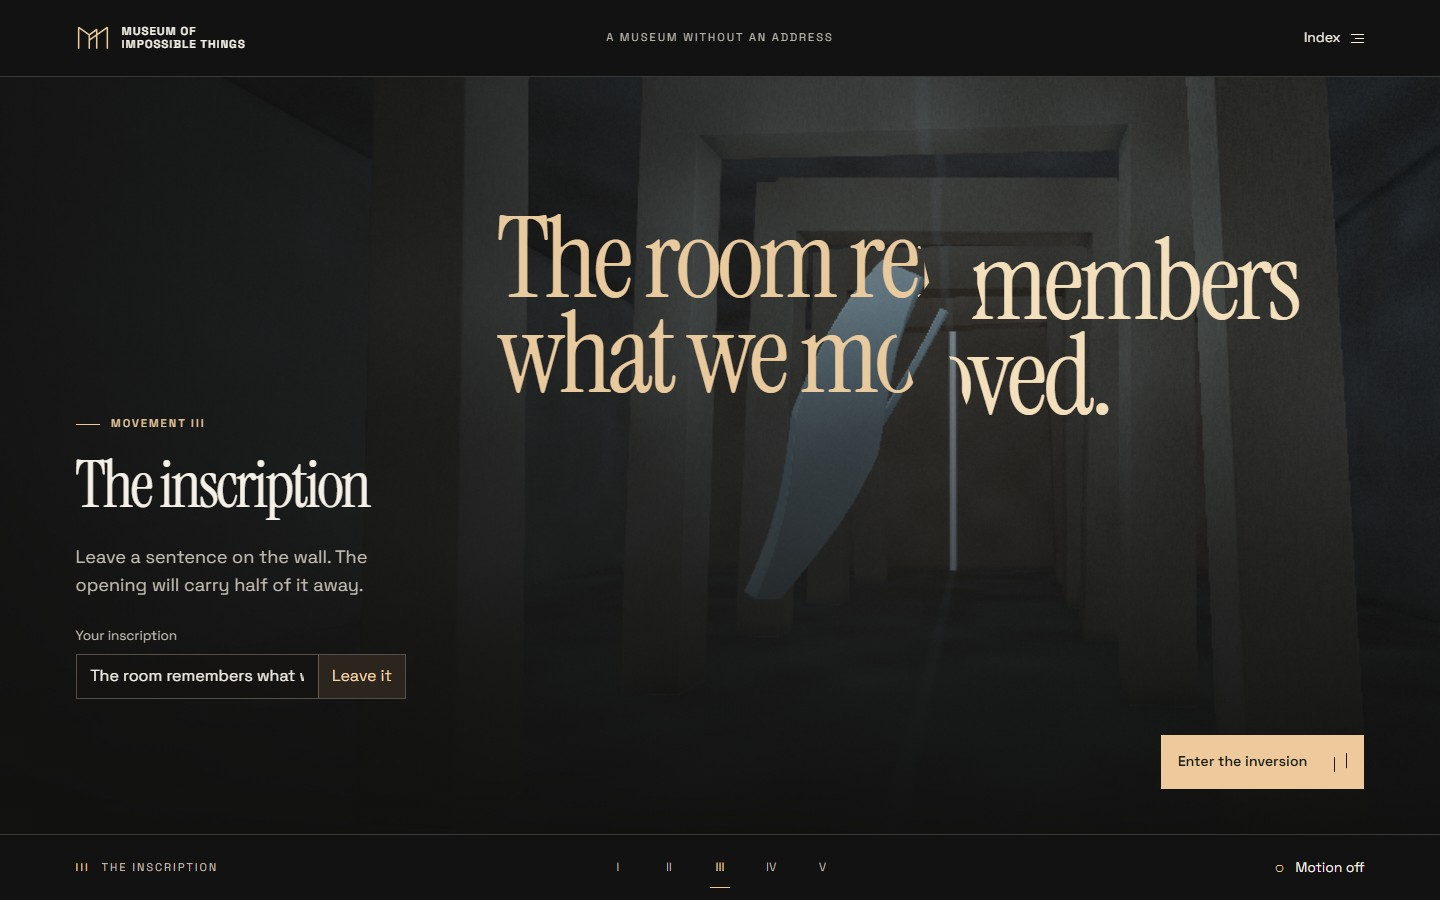
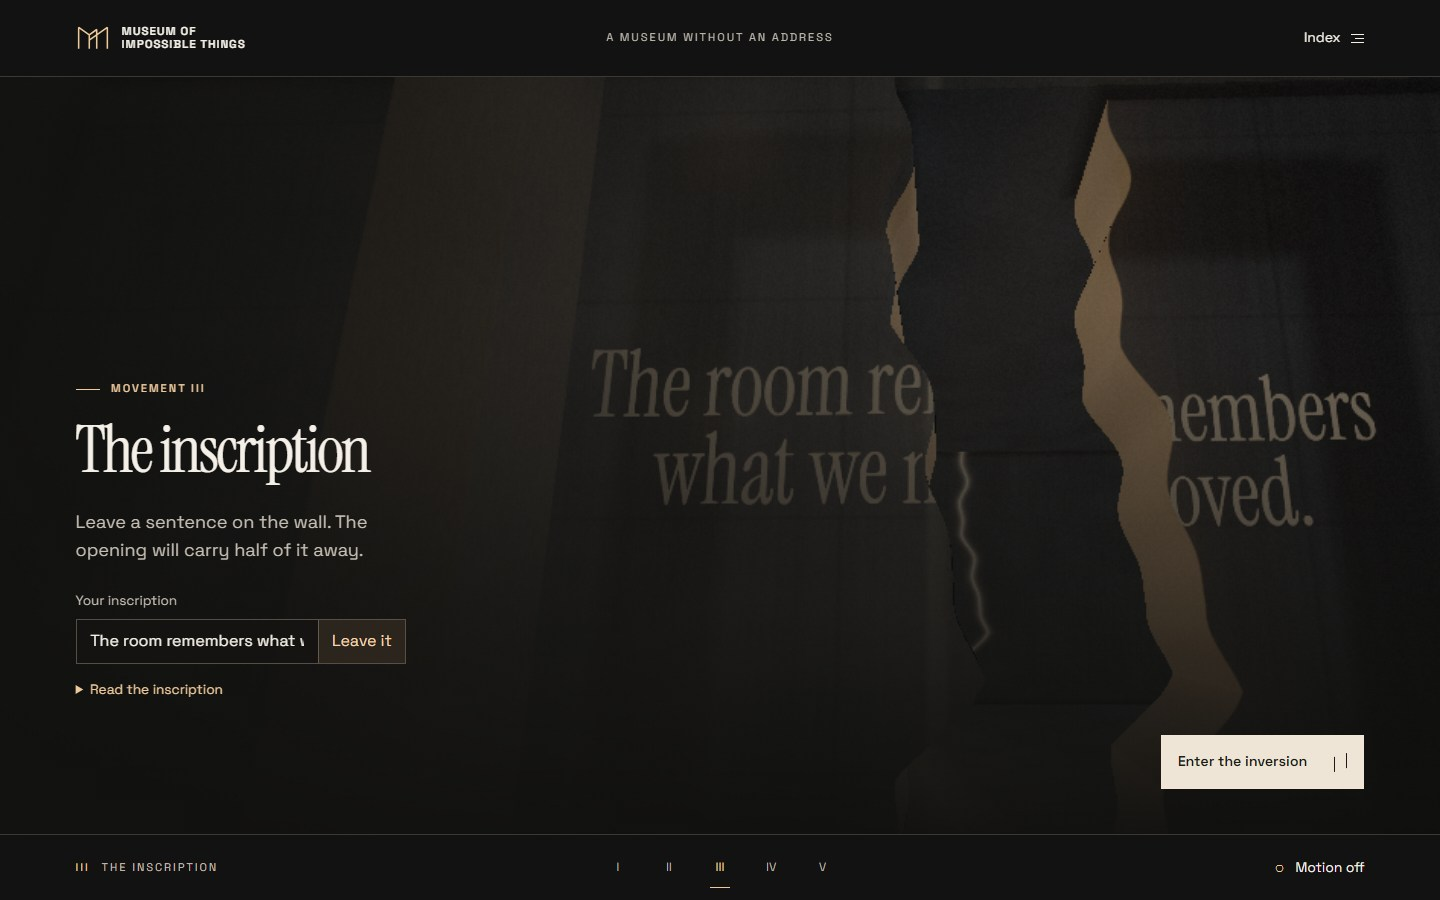
Engrave visitor inscriptions on the moving chamber walls

diff --git a/src/threshold/Chamber.tsx b/src/threshold/Chamber.tsx
@@ -1,5 +1,6 @@
 import { useEffect, useRef } from 'react'
 import { fragment, vertex } from './shaders'
+import { drawInscription } from './inscription'
 
 function compile(gl: WebGLRenderingContext, kind: number, source: string) {
   const shader = gl.createShader(kind)
@@ -19,7 +20,8 @@ function createScene(canvas: HTMLCanvasElement) {
   const fs = compile(gl, gl.FRAGMENT_SHADER, fragment)
   const program = gl.createProgram()
   const triangle = gl.createBuffer()
-  if (!program || !triangle) throw new Error('Could not allocate the scene')
+  const ink = gl.createTexture()
+  if (!program || !triangle || !ink) throw new Error('Could not allocate the scene')
   gl.attachShader(program, vs)
   gl.attachShader(program, fs)
   gl.linkProgram(program)
@@ -33,19 +35,26 @@ function createScene(canvas: HTMLCanvasElement) {
   gl.enableVertexAttribArray(position)
   gl.vertexAttribPointer(position, 2, gl.FLOAT, false, 0, 0)
   const location = (name: string) => gl.getUniformLocation(program, name)
+  gl.bindTexture(gl.TEXTURE_2D, ink)
+  gl.texParameteri(gl.TEXTURE_2D, gl.TEXTURE_MIN_FILTER, gl.LINEAR)
+  gl.texParameteri(gl.TEXTURE_2D, gl.TEXTURE_MAG_FILTER, gl.LINEAR)
+  gl.texParameteri(gl.TEXTURE_2D, gl.TEXTURE_WRAP_S, gl.CLAMP_TO_EDGE)
+  gl.texParameteri(gl.TEXTURE_2D, gl.TEXTURE_WRAP_T, gl.CLAMP_TO_EDGE)
+  gl.texImage2D(gl.TEXTURE_2D, 0, gl.RGBA, 1, 1, 0, gl.RGBA, gl.UNSIGNED_BYTE, new Uint8Array(4))
+  gl.uniform1i(location('uInk'), 0)
   return {
-    gl, program, triangle,
+    gl, program, triangle, ink,
     size: location('uSize'), opening: location('uOpening'), quality: location('uQuality'),
     chapter: location('uChapter'), joint: location('uJoint'), gravity: location('uGravity'), light: location('uLight'),
   }
 }
 
-type SceneState = { opening: number; chapter: number; motion: boolean; changing: boolean; gravity: boolean; light: number }
+type SceneState = { opening: number; chapter: number; motion: boolean; changing: boolean; gravity: boolean; light: number; phrase: string }
 
-export default function Chamber({ opening, chapter, motion, changing, gravity, light }: SceneState) {
+export default function Chamber({ opening, chapter, motion, changing, gravity, light, phrase }: SceneState) {
   const element = useRef<HTMLCanvasElement>(null)
   const update = useRef<((state: SceneState) => void) | null>(null)
-  const initial = useRef({ opening, chapter, motion, changing, gravity, light })
+  const initial = useRef({ opening, chapter, motion, changing, gravity, light, phrase })
 
   useEffect(() => {
     const node = element.current
@@ -66,6 +75,8 @@ export default function Chamber({ opening, chapter, motion, changing, gravity, l
     let frame = 0, previous = 0, refineTimer = 0
     let resize = true, disabled = false, moving = false
     let detailReady = false
+    const inkCanvas = document.createElement('canvas')
+    let uploadedPhrase = ''
     const { gl } = scene
     const rendererInfo = gl.getExtension('WEBGL_debug_renderer_info')
     const renderer = rendererInfo ? String(gl.getParameter(rendererInfo.UNMASKED_RENDERER_WEBGL)) : ''
@@ -127,6 +138,12 @@ export default function Chamber({ opening, chapter, motion, changing, gravity, l
       gl.uniform1f(scene.chapter, currentChapter)
       gl.uniform1f(scene.gravity, currentGravity)
       gl.uniform1f(scene.light, currentLight)
+      if (state.chapter >= 2 && state.phrase !== uploadedPhrase) {
+        drawInscription(inkCanvas, state.phrase)
+        gl.pixelStorei(gl.UNPACK_FLIP_Y_WEBGL, true)
+        gl.texImage2D(gl.TEXTURE_2D, 0, gl.RGBA, gl.RGBA, gl.UNSIGNED_BYTE, inkCanvas)
+        uploadedPhrase = state.phrase
+      }
       gl.drawArrays(gl.TRIANGLES, 0, 3)
       canvas.dataset.rendered = 'true'
       if (!state.changing && live) schedule()
@@ -138,6 +155,7 @@ export default function Chamber({ opening, chapter, motion, changing, gravity, l
     observer.observe(canvas)
     document.addEventListener('visibilitychange', schedule)
     canvas.addEventListener('webglcontextlost', lost)
+    void document.fonts.ready.then(() => { uploadedPhrase = ''; schedule() })
     schedule()
     return () => {
       cancelAnimationFrame(frame)
@@ -147,11 +165,13 @@ export default function Chamber({ opening, chapter, motion, changing, gravity, l
       canvas.removeEventListener('webglcontextlost', lost)
       gl.deleteBuffer(scene.triangle)
       gl.deleteProgram(scene.program)
+      gl.deleteTexture(scene.ink)
+      disabled = true
       update.current = null
     }
   }, [])
 
-  useEffect(() => { update.current?.({ opening, chapter, motion, changing, gravity, light }) }, [opening, chapter, motion, changing, gravity, light])
+  useEffect(() => { update.current?.({ opening, chapter, motion, changing, gravity, light, phrase }) }, [opening, chapter, motion, changing, gravity, light, phrase])
 
   return <canvas className="threshold-canvas" ref={element} aria-hidden="true" />
 }

diff --git a/src/threshold/Threshold.tsx b/src/threshold/Threshold.tsx
@@ -11,7 +11,7 @@ const archive = import.meta.env.BASE_URL + '?archive'
 const artwork = [
   'Two graphite walls meet at a fault. Warm light falls through the opening onto the floor.',
   'The parted walls reveal a concrete passage with offset arches and a suspended stone.',
-  'A sentence projected across two halves of the chamber follows the displacement of the walls.',
+  'An inscription on the back of the graphite walls breaks where the walls part.',
   'The displaced corridor rotates around its vanishing point.',
   'The corridor tilts back into view, with the sentence you left behind.',
 ]
@@ -126,7 +126,7 @@ export default function Threshold() {
     <main className="threshold-main">
       <figure className="threshold-art" aria-label={artwork[chapter]}>
         <div className="threshold-fallback"><span /><span /></div>
-        <Chamber opening={opening} chapter={chapter} changing={changing} motion={motion && !index} gravity={inverted} light={light / 2} />
+        <Chamber opening={opening} chapter={chapter} changing={changing} motion={motion && !index} gravity={inverted} light={light / 2} phrase={phrase} />
       </figure>
       <div className="threshold-shading" aria-hidden="true" />
       {(chapter === 2 || chapter === 4) && <div className="wall-inscription" aria-hidden="true">
@@ -157,6 +157,10 @@ export default function Threshold() {
           <button type="submit">Leave it</button></div>
           <p className="sr-only" role="status">{phrase}</p>
         </form>}
+        {(chapter === 2 || chapter === 4) && <details className="inscription-transcript">
+          <summary>Read the inscription</summary>
+          <p>{phrase}</p>
+        </details>}
         {chapter === 3 && <button className="gravity-control" aria-pressed={inverted} onClick={() => setInverted(value => !value)}>{inverted ? 'Restore gravity' : 'Invert gravity'}<span aria-hidden="true">↻</span></button>}
         {chapter === 4 && <div className="field-record">
           <dl aria-label="Visit record">
@@ -166,7 +170,6 @@ export default function Threshold() {
           </dl>
           <button type="button" disabled={exportState === 'writing'} onClick={exportPrint}>{exportState === 'writing' ? 'Preparing your print…' : 'Download your field record'}</button>
           <p role="status">{exportState === 'sent' ? 'Your print is ready.' : exportState === 'error' ? 'The print could not be created. Try again.' : ''}</p>
-          <p className="sr-only">Your inscription: {phrase}</p>
         </div>}
       </section>
       {chapter === 0 && <div className="fault-interface" data-dragging={changing}>

diff --git a/src/threshold/shaders.ts b/src/threshold/shaders.ts
@@ -12,6 +12,7 @@ uniform float uJoint;
 uniform float uGravity;
 uniform float uQuality;
 uniform float uLight;
+uniform sampler2D uInk;
 
 #define FAR 45.0
 #define EPS .004
@@ -143,6 +144,18 @@ vec3 lightScene(vec3 p, vec3 n, float id, vec3 rd) {
       color += bone*pow(max(0.0,dot(reflected,normalize(vec3(-.8,.6,.31)))),7.0)*.52;
     }
   }
+  if (slab > .5 && n.z < -.75) {
+    float rightSide = step(3.5, id);
+    float wallX = p.x + (1.0-2.0*rightSide)*(gap()-.13);
+    float muralLayout = smoothstep(.57,1.10,uSize.x/uSize.y);
+    float muralWidth = mix(2.9,4.65,muralLayout);
+    float muralHeight = mix(3.05,2.28,muralLayout);
+    vec2 inkUV = vec2(.5-(wallX-.22)/muralWidth, (p.y-rightSide*uOpening*.17-muralHeight)/2.10);
+    if (all(greaterThan(inkUV,vec2(0.0))) && all(lessThan(inkUV,vec2(1.0)))) {
+      float mask = texture2D(uInk,inkUV).a;
+      color = mix(color, bone*(.55+sideLight*.27+broad*.13),mask*.91);
+    }
+  }
   return color;
 }
 
@@ -154,15 +167,20 @@ void main() {
   float inscription = smoothstep(1.0,2.0,uChapter);
   float inversion = smoothstep(2.0,3.0,uChapter);
   float exitShot = smoothstep(3.0,4.0,uChapter);
+  float reading = inscription*(1.0-inversion);
   float mobile = 1.0-smoothstep(.63,1.0,aspect);
-  vec3 ro = vec3(mix(-1.46,.27,inside)+inscription*.76-inversion*.86+exitShot*.32, 1.78+mobile*.24+inversion*.72-exitShot*.29, mix(8.1,-2.38,inside)-inscription*1.88-inversion*.66-exitShot*.17);
+  float readingDistance = reading*(1.32+mobile*1.75) + exitShot*(.85+mobile*1.6);
+  vec3 ro = vec3(mix(-1.46,.27,inside)+inscription*.76-inversion*.86+exitShot*.32-reading*.48, 1.78+mobile*.24+inversion*.72-exitShot*.29+reading*.48, mix(8.1,-2.38,inside)-inscription*1.88-inversion*.66-exitShot*.17-readingDistance);
   vec3 target = vec3(.0,2.52+mobile*.19,mix(-.18,-18.0,inside));
   vec3 fwd = normalize(target-ro);
-  fwd.xz = turn(3.15*exitShot) * fwd.xz;
+  fwd.xz = turn(3.15*exitShot + 3.13*reading) * fwd.xz;
+  fwd.y += reading*(.21-mobile*.14) + exitShot*(.15-mobile*.09);
+  fwd = normalize(fwd);
   vec3 side = normalize(cross(fwd,vec3(0,1,0)));
   vec3 up = cross(side,fwd);
   uv = turn(3.14159*uGravity) * uv;
-  vec3 rd = normalize(fwd*(1.78+mobile*.23)+side*uv.x+up*uv.y);
+  float focalLength = 1.78+mobile*(.23-.48*(reading+exitShot));
+  vec3 rd = normalize(fwd*focalLength+side*uv.x+up*uv.y);
   float t=.03, id=0.0;
   for(int i=0;i<112;i++){
     if(uQuality<.5 && i==60) break;

diff --git a/src/threshold/threshold.css b/src/threshold/threshold.css
@@ -160,6 +160,7 @@ body { margin:0; }
   color:#e9ca9e;
 }
 .wall-inscription span { position:absolute; width:100%; overflow-wrap:anywhere; display:block; }
+.threshold-main:has(.threshold-canvas[data-rendered]) .wall-inscription { display:none; }
 .wall-inscription span:first-child { clip-path:polygon(0 0,48% 0,50% 37%,46% 62%,49% 100%,0 100%); translate:calc(var(--opening) * -3.6%) calc(var(--opening) * -13px); }
 .wall-inscription span:last-child { clip-path:polygon(48% 0,100% 0,100% 100%,49% 100%,46% 62%,50% 37%); translate:calc(var(--opening) * 5.4%) calc(var(--opening) * 19px); color:#f4dfbd; }
 .act-4 .wall-inscription { inset:27% 9% auto 57%; opacity:.6; font-size:clamp(2.2rem,4vw,5rem); transform:perspective(480px) rotateY(-19deg); }
@@ -180,6 +181,10 @@ body { margin:0; }
 .field-record dt { font-size:.7rem; text-transform:uppercase; letter-spacing:.095em; color:var(--muted); }
 .field-record dd { margin:.32rem 0 0; font-size:.9rem; color:var(--brass); }
 .field-record p[role=status] { margin:.35rem 0 0; font-size:.8rem; color:var(--brass); }
+.inscription-transcript { margin-top:1rem; width:min(100%,330px); }
+.inscription-transcript summary { cursor:pointer; width:fit-content; color:var(--brass); font-size:.85rem; }
+.inscription-transcript summary:focus-visible { outline:2px solid var(--brass); outline-offset:4px; }
+.inscription-transcript p { margin:.5rem 0 0; padding:.7rem .8rem; border-left:1px solid var(--brass); background:#141210e8; overflow-wrap:anywhere; }
 .threshold-directory { margin:0 0 0 auto; height:100%; max-height:none; width:min(540px,100vw); max-width:none; padding:clamp(24px,4vw,55px); background:#ede8de; color:#232220; border:0; }
 .threshold-directory::backdrop { background:#10100fbe; }
 .threshold-directory :is(button,a):focus-visible { outline-color:#5f3e24; }

diff --git a/tests/threshold.spec.ts b/tests/threshold.spec.ts
@@ -28,15 +28,18 @@ test('a horizontal drag opens the rendered fault and carries the opening across 
   await page.getByRole('button', { name: 'Blue light' }).click()
   await expect(page.getByRole('button', { name: 'Blue light' })).toHaveAttribute('aria-pressed', 'true')
   await page.getByRole('button', { name: 'Approach the inscription' }).click()
+  const beforeInk = await canvas.screenshot()
   const input = page.getByLabel('Your inscription')
   await input.fill('<Room> remembers.')
   await input.press('Enter')
   await expect(page.getByRole('status')).toHaveText('<Room> remembers.')
+  await expect.poll(async () => (await canvas.screenshot()).equals(beforeInk)).toBe(false)
   await page.getByRole('button', { name: 'Enter the inversion' }).click()
   await page.getByRole('button', { name: 'Invert gravity' }).click()
   await expect(page.getByRole('button', { name: 'Restore gravity' })).toHaveAttribute('aria-pressed', 'true')
   await page.getByRole('button', { name: 'Look back' }).click()
-  await expect(page.locator('.wall-inscription span').first()).toHaveText('<Room> remembers.')
+  await page.getByText('Read the inscription', { exact: true }).click()
+  await expect(page.locator('.inscription-transcript p')).toHaveText('<Room> remembers.')
   await expect(page.locator('.field-record')).toContainText('Blue light')
   await expect(page.locator('.field-record')).toContainText('Inverted')
   const [print] = await Promise.all([

diff --git a/src/threshold/inscription.ts b/src/threshold/inscription.ts
@@ -1,0 +1,24 @@
+export function drawInscription(canvas: HTMLCanvasElement, phrase: string) {
+  const ink = canvas.getContext('2d')
+  if (!ink) return
+  canvas.width = 1024
+  canvas.height = 384
+  ink.font = '126px "Instrument Serif", Georgia, serif'
+  ink.fillStyle = '#fff'
+  ink.textAlign = 'center'
+  ink.textBaseline = 'middle'
+  const lines: string[] = []
+  let line = ''
+  for (const symbol of phrase) {
+    if (line && ink.measureText(line + symbol).width > 950) {
+      const boundary = line.lastIndexOf(' ')
+      lines.push(boundary > 0 ? line.slice(0, boundary) : line)
+      line = boundary > 0 ? line.slice(boundary + 1) : ''
+    }
+    line += symbol
+  }
+  lines.push(line)
+  const spacing = Math.min(112, 360 / lines.length)
+  ink.font = `${Math.min(126, spacing + 12)}px "Instrument Serif", Georgia, serif`
+  lines.forEach((value, i) => ink.fillText(value.trim(), 512, 192 + (i - (lines.length - 1) / 2) * spacing, 950))
+}

diff --git a/README.md b/README.md
@@ -12,7 +12,7 @@ Pull open a fault in a graphite wall. Cross it, relight an object, leave a sente
 
 The primary experience uses React, TypeScript, Vite, and a small, purpose-built WebGL renderer. The scene is a signed distance field authored in GLSL. A single full-screen triangle drives camera rays through the room, refining hit positions as they approach surfaces. Procedural aggregate, grazing light, a narrow floor reflection, and fog distinguish cast concrete from the suspended foil without external texture downloads.
 
-The scene renderer draws in response to input, camera interpolation, viewport changes, and visibility changes. Moving frames use a smaller pixel budget, a shorter ray march, and cheaper surface shading. The renderer lowers the interactive budget further when frames arrive slowly and redraws a detailed still when motion settles. Input uses pointer capture on the fault itself, with arrow-key increments, Home and End, and a separate button for opening and crossing. Reduced motion removes camera tweening. The fallback uses genuine scene captures with movable CSS wall panels. The inscription uses live text with two clipped layers and an accessible announcement.
+The scene renderer draws in response to input, camera interpolation, viewport changes, and visibility changes. Moving frames use a smaller pixel budget, a shorter ray march, and cheaper surface shading. The renderer lowers the interactive budget further when frames arrive slowly and redraws a detailed still when motion settles. Input uses pointer capture on the fault itself, with arrow-key increments, Home and End, and a separate button for opening and crossing. Reduced motion removes camera tweening. The fallback uses genuine scene captures with movable CSS wall panels. The WebGL renderer projects the inscription onto the two moving wall surfaces. It uploads a small text atlas when the phrase changes. A readable transcript and clipped HTML fallback are available alongside the artwork.
 
 The original three-exhibit version remains available as an [exhibition archive](https://amanor-12.github.io/museum-of-impossible-things/?archive). The archive loads Three.js, React Three Fiber, Drei, and GSAP only on that route. Its rooms retain material states, kinetic typography, and the folding corridor.
 

diff --git a/docs/creative-research.md b/docs/creative-research.md
@@ -78,3 +78,7 @@ The remaining artistic gap is in the final inscription. It reads as a graphic la
 The Displaced Room now has three lighting conditions on the same surface. The Inversion rolls the camera around the corridor's vanishing point while leaving the foil in world space. The exit combines the aperture, chosen light, orientation, and inscription into a 1200 × 1500 PNG. All print drawing happens on the visitor's device.
 
 The first ray-marched version spent the full still-image budget on drag, camera movement, and passive mouse movement. It now renders only in response to a scene change. During movement, it starts at 144,000 pixels, can reduce to 66,000 pixels as frame intervals rise, uses 60 rather than 112 march steps, and skips fine aggregate and volume lighting. Software rendering starts at 56,000 pixels and can fall to 44,000. Once motion stops, the renderer waits 120 ms, redraws a still at up to 470,000 pixels, and sleeps. These are workload caps, not a guarantee of a frame rate.
+
+## Fourth design pass · Inscription on stone
+
+The inscription now uses a local glyph atlas sampled where each camera ray hits the back of the two graphite walls. Each half follows the coordinates of its own slab. The opening physically interrupts the lettering, and the ink responds to the existing lighting and concrete variation. The camera turns back toward the wall to read it and encounters the same inscription again on the way out. The previous screen-space treatment serves as the non-WebGL fallback. A transcript lets visitors read the entire sentence even when the wall crops it.

diff --git a/docs/portfolio/README.md b/docs/portfolio/README.md
@@ -7,6 +7,7 @@ The visitor pulls a real-time fault open, moves through the same architecture, t
 - [Threshold](threshold-v2.jpg)
 - [Displaced room](passage-v2.jpg)
 - [Inscription](inscription-v2.jpg)
+- [Mobile inscription and transcript](inscription-mobile.jpg)
 - [Inversion](inversion.jpg)
 - [Return](return-v2.jpg)
 - [Recorded walkthrough](threshold-walkthrough.webm)
